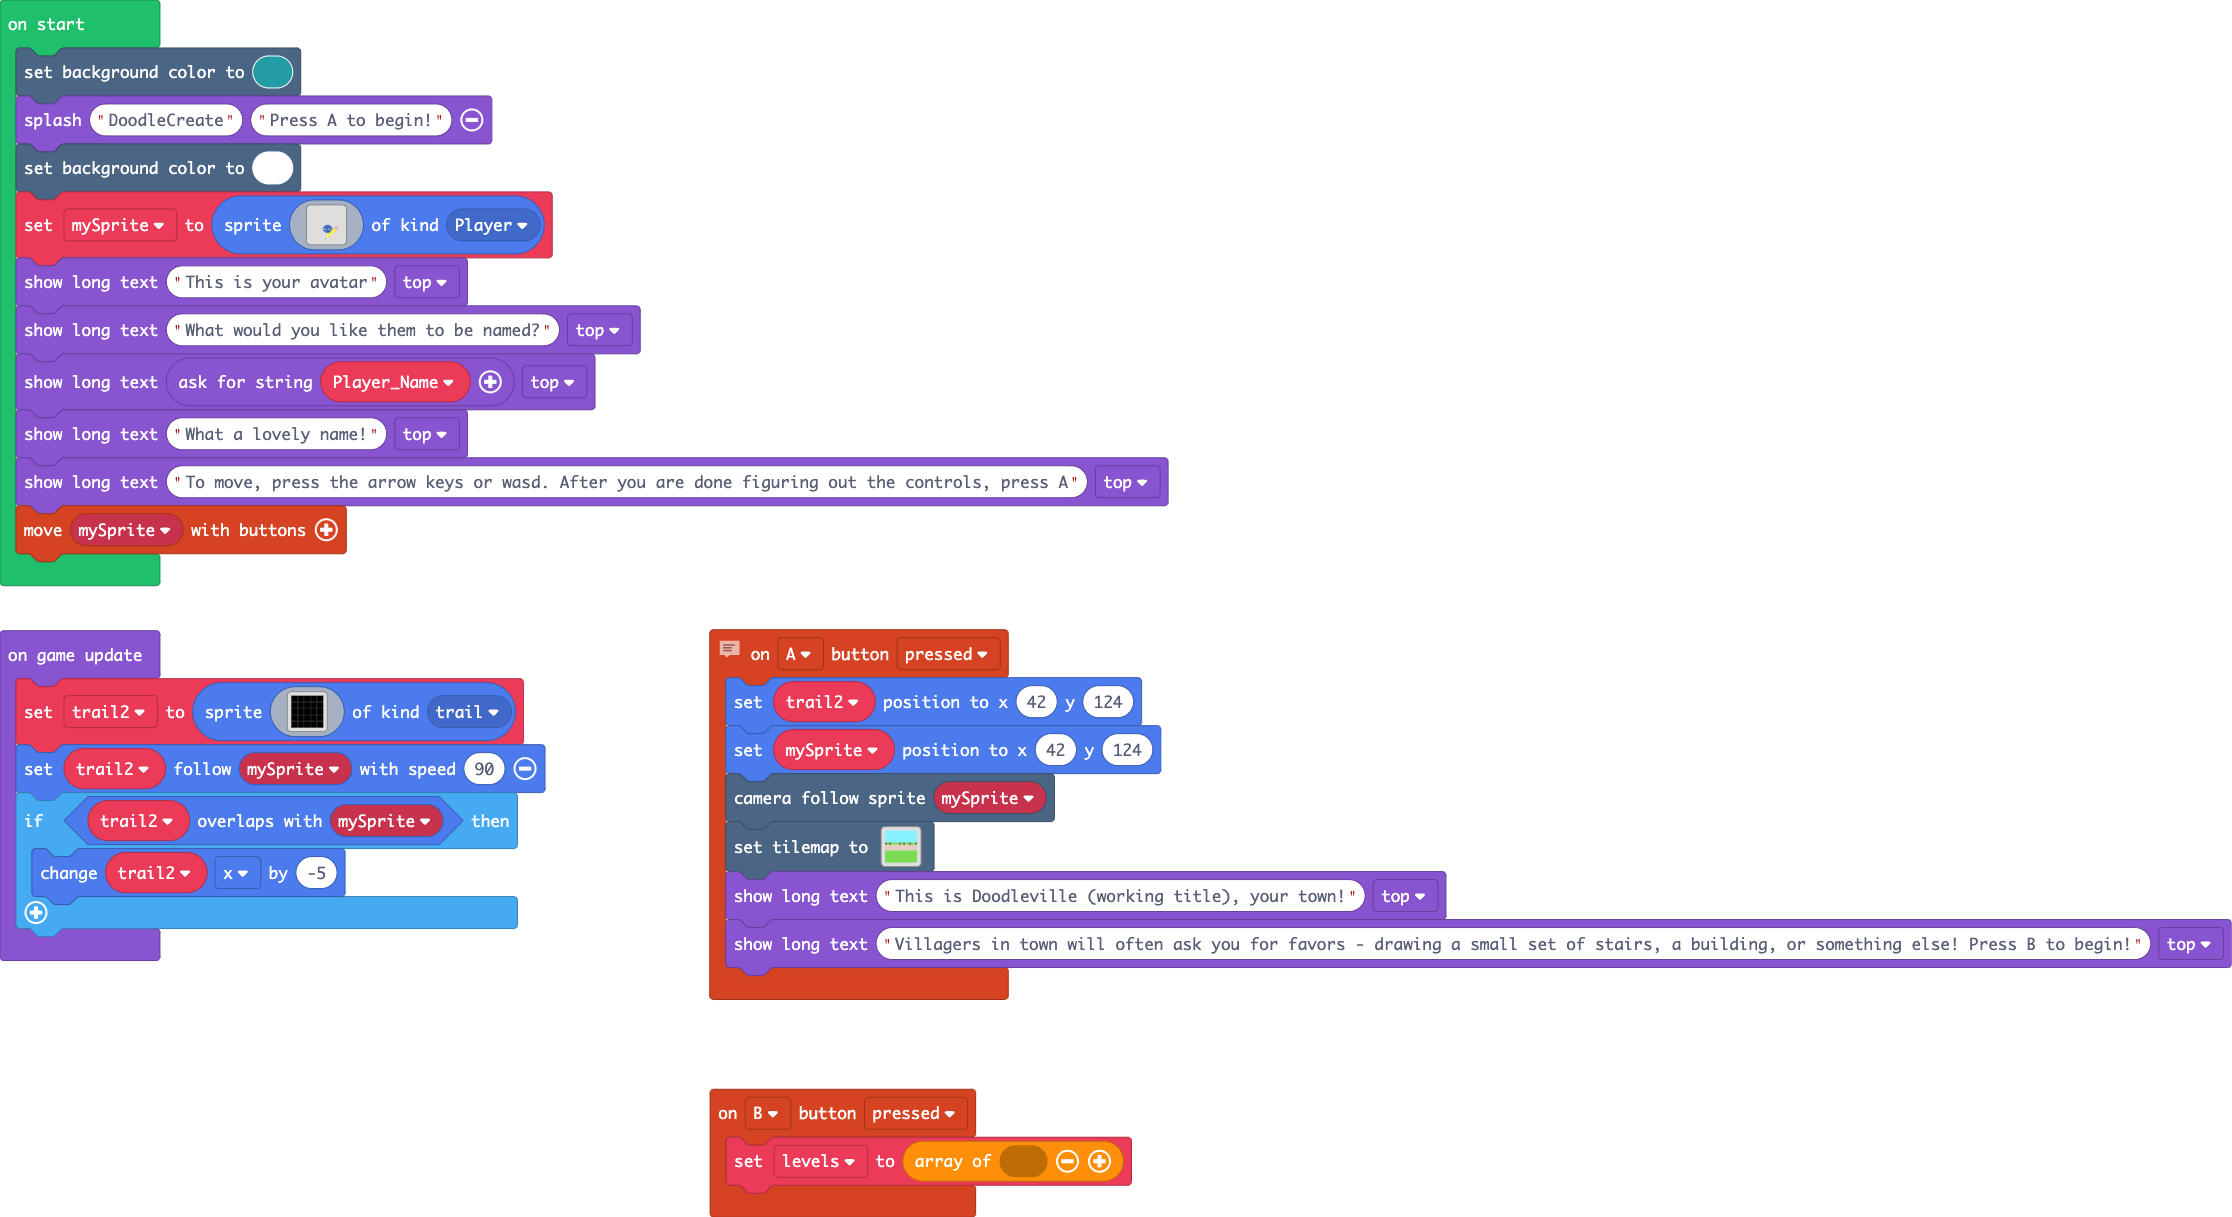
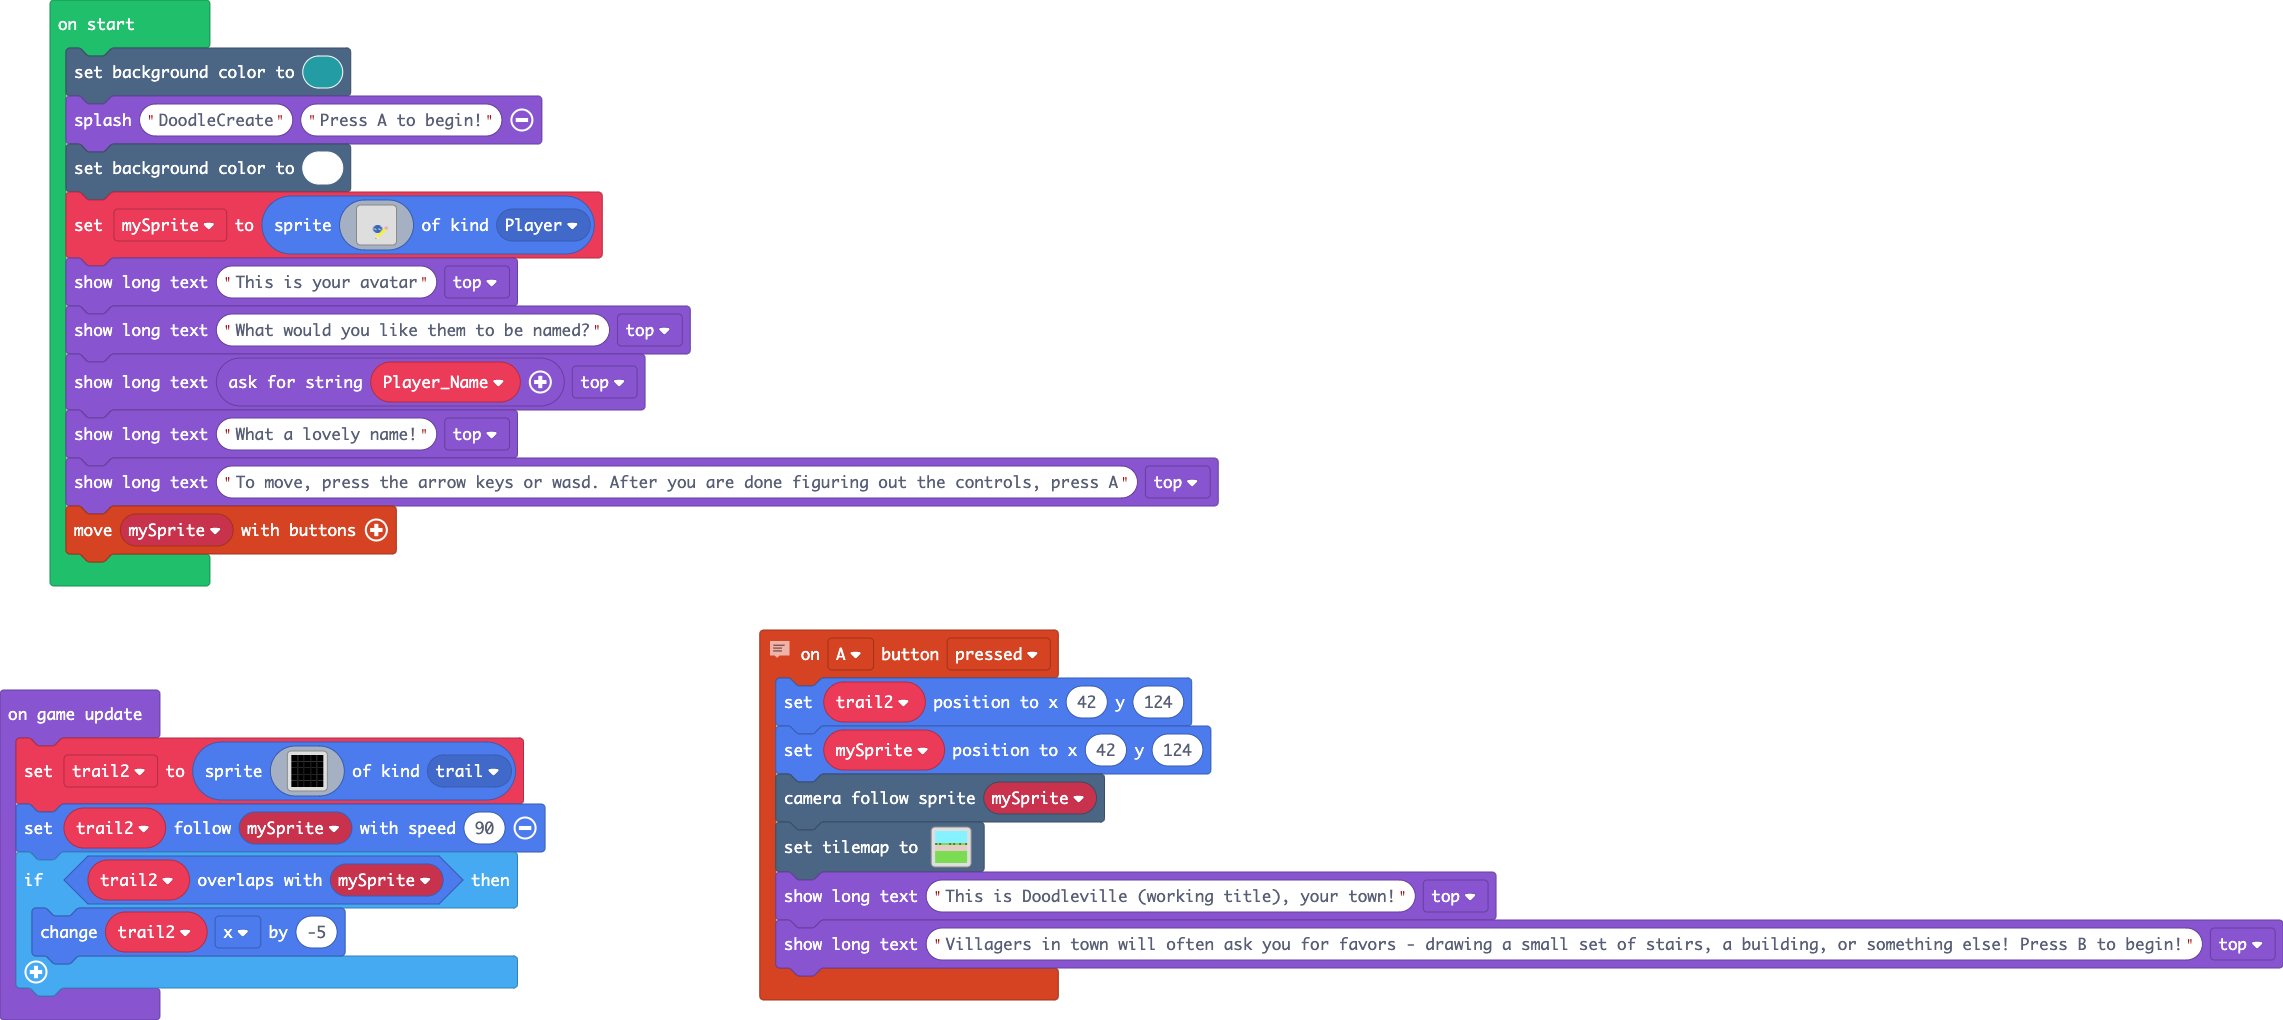
Update main.blocks, main.ts

diff --git a/main.ts b/main.ts
@@ -117,9 +117,6 @@ d d d d d d d d d d d d d d d d
 9 9 9 9 9 9 9 9 9 9 9 9 9 9 9 9 
 `
 }
-controller.B.onEvent(ControllerButtonEvent.Pressed, function () {
-    levels = []
-})
 // You are really off to a great start!  I love the
 // sprites!  I like all of this!  Keep up the good
 // work!
@@ -154,7 +151,6 @@ controller.A.onEvent(ControllerButtonEvent.Pressed, function () {
     game.showLongText("Villagers in town will often ask you for favors - drawing a small set of stairs, a building, or something else! Press B to begin!", DialogLayout.Top)
 })
 let trail2: Sprite = null
-let levels: number[] = []
 let Player_Name = ""
 let mySprite: Sprite = null
 scene.setBackgroundColor(6)
